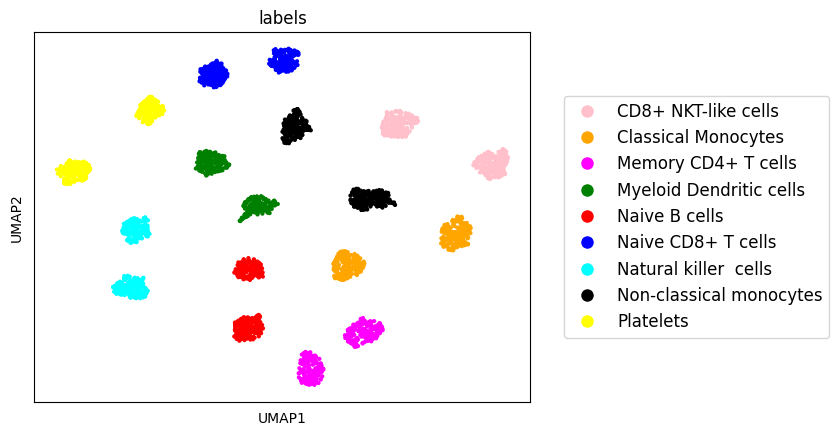
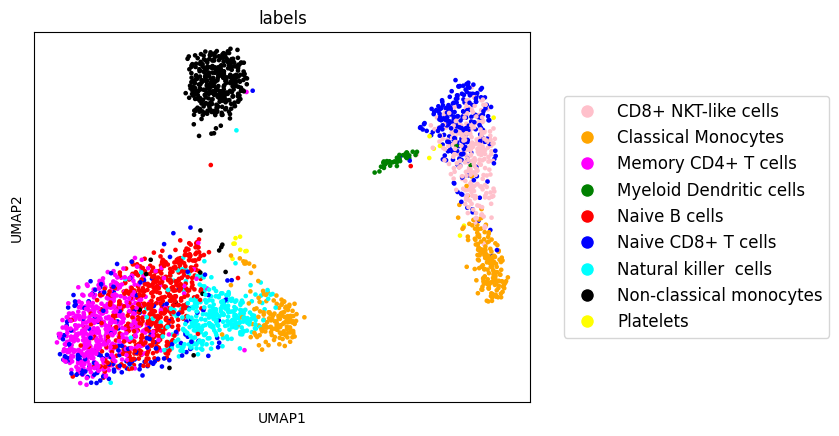
added pbmc3k_generated

diff --git a/trainBulk.py b/trainBulk.py
@@ -16,33 +16,28 @@ device = torch.device("cuda" if torch.cuda.is_available() else "cpu")
 input_dim = paired_dataset.input_dim
 hidden_dim = paired_dataset.hidden_dim
 z_dim = paired_dataset.z_dim
-epochs = 1500
-
-# def process_tensor(tensor, start_idx, end_idx):
-#     return torch.cat([tensor[:, start_idx:start_idx+500, :].mean(1, keepdim=True), 
-#                     tensor[:, start_idx+500:end_idx, :].mean(1, keepdim=True)], dim=1)
-
+epochs = 2500
 
 training_losses = []
-def train(epoch, scmodel, bulkmodel, optimizer, train_loader, scheduler):
-    print("Epoch: ", epoch+1)
+def train(epoch, bulkmodel, optimizer, train_loader, sc_mus, sc_logvars, sc_gmm_weights, gmm_weights_backup, train_gmm_till=500):
+    # print("Epoch: ", epoch+1)
     bulkmodel.train()
     bulkmodel.to(device)
     
     train_loss = 0
     for batch_idx, (data,_) in enumerate(train_loader):
         # adata_input = X_tensor.to(device)
-        num_samples = mini_batch
-        indices = torch.randperm(data.size(0))#[:num_samples]  # Generate random indices
-        sampled_tensor = data[indices]
+        # indices = torch.randperm(data.size(0))#[:num_samples]  # Generate random indices
+        # sampled_tensor = data[indices]
 
-        adata_input = sampled_tensor.to(device)
+        # adata_input = sampled_tensor.to(device)
         
-        sc_mus, sc_logvars, sc_gmm_weights = scmodel.encode(adata_input)
+        # sc_mus, sc_logvars, sc_gmm_weights = scmodel.encode(data)
 
         # sc_gmm_weights = sc_gmm_weights.sum(dim=0).reshape(1,-1)
         sc_mus_tensor = torch.stack(sc_mus)
         sc_logvars_tensor = torch.stack(sc_logvars)
+        # pdb.set_trace()
         
         concatenated_sc_mus = sc_mus_tensor.sum(1, keepdim=True)
         concatenated_sc_logvars = sc_logvars_tensor.sum(1, keepdim=True)
@@ -51,46 +46,60 @@ def train(epoch, scmodel, bulkmodel, optimizer, train_loader, scheduler):
 
         data = data.to(device)
         
-
-        # pdb.set_trace()
         bulk_mus, bulk_logvars, bulk_gmm_weights = bulkmodel(data)
         bulk_mus = torch.stack(bulk_mus)
         if torch.isnan(bulk_mus).any():
             pdb.set_trace()
         bulk_logvars = torch.stack(bulk_logvars)
-        # pdb.set_trace()
 
 
-        mus_loss = nn.MSELoss()(concatenated_sc_mus, bulk_mus.expand(paired_dataset.z_dim, concatenated_sc_mus.shape[1], paired_dataset.z_dim))
-        logvars_loss = nn.MSELoss()(concatenated_sc_logvars, bulk_logvars.expand(paired_dataset.z_dim, concatenated_sc_logvars.shape[1], paired_dataset.z_dim))
-        gmm_weights_loss = nn.MSELoss()(bulk_gmm_weights.expand(len(sc_gmm_weights), paired_dataset.z_dim), sc_gmm_weights)
+        if epoch+1 <= train_gmm_till:
+            gmm_weights_loss = nn.MSELoss()(bulk_gmm_weights.expand(len(sc_gmm_weights), paired_dataset.z_dim), sc_gmm_weights)
+            combined_loss = gmm_weights_loss#max(train_gmm_till-epoch, 1)* 
+        elif epoch+1 > train_gmm_till:
+            gmm_weights_backup = {name: param.clone() for name, param in bulkmodel.fc_gmm_weights.named_parameters()}
+            for param in bulkmodel.fc_gmm_weights.parameters():
+                param.requires_grad = False
+            optimizer = torch.optim.Adam(filter(lambda p: p.requires_grad, bulkmodel.parameters()), lr=1e-4)
+        
+            mus_loss = nn.MSELoss()(concatenated_sc_mus, bulk_mus.expand(paired_dataset.z_dim, concatenated_sc_mus.shape[1], paired_dataset.z_dim))
+            logvars_loss = nn.MSELoss()(concatenated_sc_logvars, bulk_logvars.expand(paired_dataset.z_dim, concatenated_sc_logvars.shape[1], paired_dataset.z_dim))
+            combined_loss = mus_loss + logvars_loss
 
-        combined_loss = mus_loss + logvars_loss + gmm_weights_loss
         combined_loss.backward()
-
         optimizer.step()
         optimizer.zero_grad() 
-        scheduler.step()
-        
-        train_loss += combined_loss.item()
-    print(f'====> Epoch: {epoch} Average loss: {train_loss / len(train_loader.dataset):.4f}')
-    print(f'Mus loss: {mus_loss.item():.4f}, Logvars loss: {logvars_loss.item():.4f}, GMM weights loss: {gmm_weights_loss.item():.4f}')
-    if (epoch+1)%50 == 0:
-        print(bulk_gmm_weights.mean(0))
-    if (epoch+1)%100 == 0:
-        print(sc_gmm_weights.mean(0))
 
+        if epoch+1 > train_gmm_till:
+            for name, param in bulkmodel.fc_gmm_weights.named_parameters():
+                param.data = gmm_weights_backup[name]
+
+        train_loss += combined_loss.item()
+
+    if (epoch+1)%10 == 0 and epoch+1 <= train_gmm_till:
+        print(f'====> Epoch: {epoch+1} Average loss: {train_loss:.4f}')
+        print(bulk_gmm_weights.mean(0))
+        print(sc_gmm_weights.mean(0))
+    elif (epoch+1)%10 == 0 and epoch+1 > train_gmm_till:
+        print(f'====> Epoch: {epoch+1} Average loss: {train_loss:.4f}')
+        print(mus_loss.item())
+        print(logvars_loss.item())
+
+    training_losses.append(combined_loss.item())
+    
+  
     if (epoch+1)%500 == 0:
         bulkmodel = bulkmodel.eval()
         torch.save(bulkmodel.cpu().state_dict(), f"bulk_model_{epoch+1}.pt")
     
-
+    return gmm_weights_backup
+    
+    
 if __name__ == "__main__":
     train_loader = paired_dataset.dataloader
     bulk_model = models.bulkVAE(input_dim, hidden_dim, z_dim)
-    optimizer = torch.optim.Adam(bulk_model.parameters(), lr=5e-3, weight_decay=10)
+    optimizer = torch.optim.Adam(bulk_model.parameters(), lr=5e-3)
 
-    scheduler = torch.optim.lr_scheduler.StepLR(optimizer, step_size=10, gamma=0.99)
 
     scmodel = models.scVAE(input_dim, hidden_dim, z_dim)
 
@@ -104,7 +113,7 @@ if __name__ == "__main__":
     for param in scmodel.parameters():
         param.requires_grad = False
 
-    # bulk_model_state_dict = torch.load('bulk_model_500.pt', map_location=device)
+    # bulk_model_state_dict = torch.load('bulk_model_1200.pt', map_location=device)
     # bulk_model_state_dict = {k.replace('module.', ''): v for k, v in bulk_model_state_dict.items()}
 
     # def modify_keys(state_dict):
@@ -123,27 +132,36 @@ if __name__ == "__main__":
 
     # # Load the state dictionaries into the models
     # bulk_model.load_state_dict(bulk_model_state_dict)
+    sc_mus, sc_logvars, sc_gmm_weights = scmodel.encode(paired_dataset.X_tensor.to(device))
 
     bulk_model = bulk_model.to(device)
-    # pdb.set_trace()
-
-
     print("Loaded model.")
+    gmm_weights_backup = None
 
     for epoch in range(0, epochs + 1):
+        gmm_weights_backup = train(epoch,\
+                                    bulk_model,
+                                    optimizer,
+                                    train_loader,
+                                    sc_mus,
+                                    sc_logvars,
+                                    sc_gmm_weights,
+                                    gmm_weights_backup)
 
-        
-        train(epoch,\
-              scmodel,
-               bulk_model,
-               optimizer,
-               train_loader,
-               scheduler)
+    # Save all training_losses_mean, training_losses_var, and training_losses_gmm_weights.
+    # np.save('training_losses_mean.npy', np.array(training_losses_mean))
+    # np.save('training_losses_var.npy', np.array(training_losses_var))
+    # np.save('training_losses_gmm_weights.npy', np.array(training_losses_gmm_weights))
+    np.save('training_losses.npy', np.array(training_losses))
+    
+    # After all training_losses_mean, training_losses_var, and training_losses_gmm_weights.
+    # Plot the losses
+    plt.figure()
+    # plt.plot(training_losses_mean, label='Mean loss')
+    # plt.plot(training_losses_var, label='Variance loss')
+    # plt.plot(training_losses_gmm_weights, label='GMM weights loss')
+    plt.plot(training_losses, label='Combined loss')
+    plt.legend()
+    plt.savefig('losses.png')
+    plt.show()
 
-    # After all your training epochs are complete
-    plt.figure(figsize=(10,5))
-    plt.plot(training_losses)
-    plt.title('Training Loss Over Epochs')
-    plt.xlabel('Epoch')
-    plt.ylabel('Loss')
-    plt.savefig('Bulk_training_loss.png')

diff --git a/B2SC.py b/B2SC.py
@@ -47,10 +47,16 @@ def generate(b2sc_model, loader):
         mus, logvars, gmm_weights = b2sc_model.encode(data)
         
         gmm_weights = gmm_weights.mean(0)
-        gmm_weights = torch.nn.functional.sigmoid(gmm_weights)
+
+        # find the minimum positive value in gmm_weights or default to 1e-10 if all values are negative
+        min_positive = torch.min(gmm_weights[gmm_weights > 0]).item() if torch.any(gmm_weights > 0) else 1e-3
+
+        # clamp the negative values to the smallest positive number
+        gmm_weights_clamped = torch.clamp(gmm_weights, min=min_positive)
+        # gmm_weights = torch.nn.functional.sigmoid(gmm_weights)
         # print(gmm_weights)
         
-        selected_neuron = torch.multinomial(gmm_weights, 1).item()
+        selected_neuron = torch.multinomial(gmm_weights_clamped, 1).item()
         # print(selected_neuron)
         # print(selected_neuron)
         labels.append(selected_neuron)
@@ -74,7 +80,7 @@ if __name__ == "__main__":
     
     # Load state dictionaries
     scmodel_state_dict = torch.load('/u/hc2kc/scVAE/sc_model_700.pt', map_location=device)
-    bulk_model_state_dict = torch.load('/u/hc2kc/scVAE/bulk_model_1000.pt', map_location=device)
+    bulk_model_state_dict = torch.load('/u/hc2kc/scVAE/bulk_model_2500.pt', map_location=device)
 
     # Modify the keys in the state dictionary to remove the "module." prefix
     scmodel_state_dict = {k.replace('module.', ''): v for k, v in scmodel_state_dict.items()}
@@ -144,13 +150,13 @@ if __name__ == "__main__":
 
     print("Loaded models")
 
-    try:
-        all_recon_counts = np.load('recon_counts.npy').tolist()
-        all_labels = np.load('labels.npy').tolist()
-    except:
-        all_recon_counts = []
-        all_labels = []
+    # pdb.set_trace()
+    # b2sc_model.encode(X_tensor.to(device).sum(0))[-1]
+    # tensor([0.1868, 0.1287, 0.1126, 0.1125, 0.1461, 0.1928, 0.1002, 0.0130, 0.0059],
+    #     device='cuda:0', grad_fn=<AddBackward0>)
 
+    all_recon_counts = []
+    all_labels = []
     
 
     num_runs = 2700  # or however many times to run the generation

diff --git a/cluster_genecounts.py b/cluster_genecounts.py
@@ -4,9 +4,9 @@ import matplotlib.pyplot as plt
 import matplotlib.lines as mlines
 
 # Load data and labels
-data = np.load('recon_counts_u.npy')
+data = np.load('recon_counts.npy')
 adata = sc.AnnData(X=data)
-labels = np.load('labels_u.npy')
+labels = np.load('labels.npy')
 
 # Given label and color maps
 

diff --git a/paired_dataset.py b/paired_dataset.py
@@ -72,7 +72,7 @@ np.save('recon_counts_u.npy', X_tensor)
 np.save('labels_u.npy', cell_types_tensor)
 
 
-mini_batch = len(adata)//2
+mini_batch = len(adata)
 
 dataloader = DataLoader(dataset, batch_size=mini_batch, shuffle=False)
 
